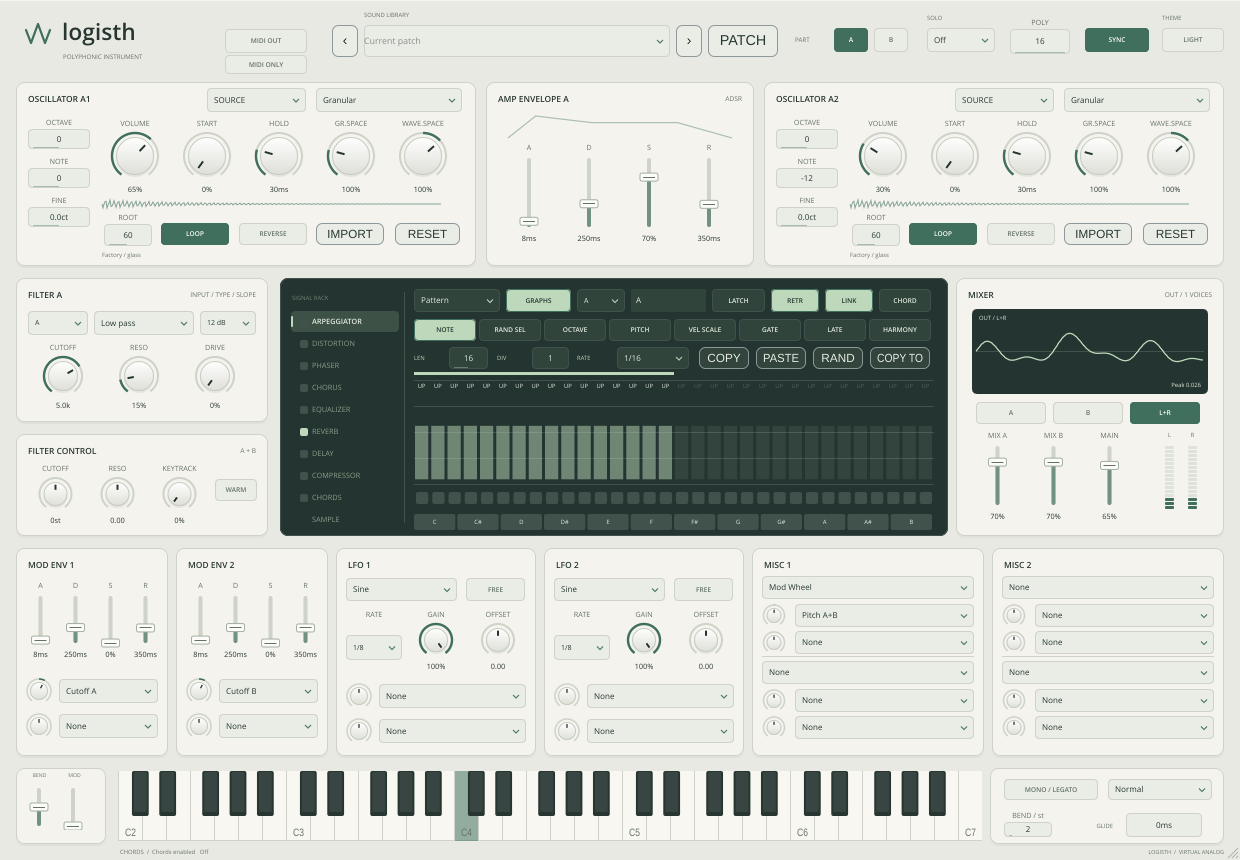
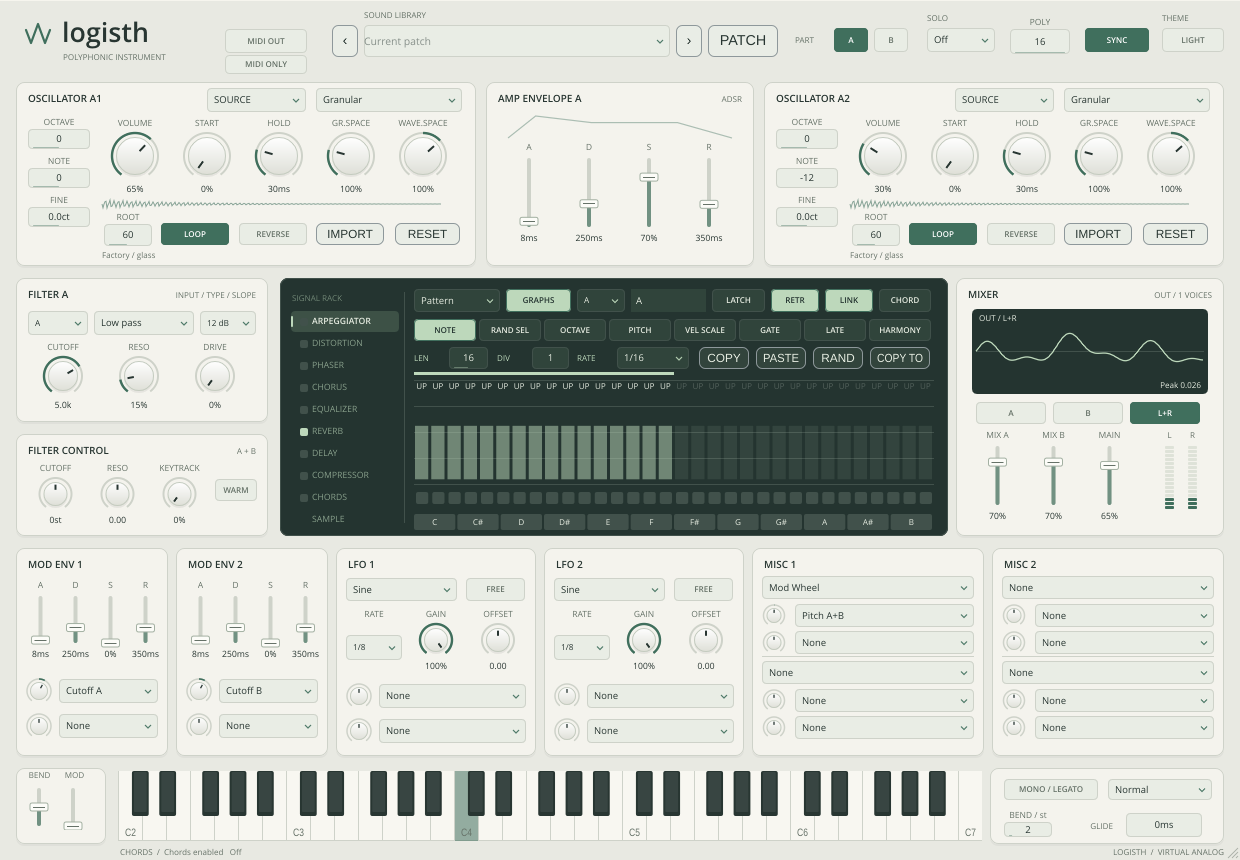
Fix dropped button clicks and arp disable state in logisth 0.5.1
Share the GUI layout-state comparison so granular-model defaults no longer trigger a 24 Hz control rebuild. Increase text/menu sizing, clear legacy arp playheads on disable, and add 100 pointer interaction cases plus arp shutdown and retrigger/inversion audio regressions.

diff --git a/tests/ProcessorTests.cpp b/tests/ProcessorTests.cpp
@@ -345,12 +345,106 @@ void checkStudioProcessor() {
            "user preset files, malformed file rejection, real sum scope and grain telemetry\n";
 }
 
+void checkPointerInteraction() {
+    using namespace juce;
+    LogisthProcessor p;
+    p.loadPreset(0);
+    std::unique_ptr<AudioProcessorEditor> ui(p.createEditor());
+    ui->setSize(1240, 860);
+    auto *console = ui->getChildComponent(0);
+    auto tick = [] {
+        Thread::sleep(55);
+        Timer::callPendingTimersSynchronously();
+    };
+    auto event = [](Component &c, bool down) {
+        auto at = c.getLocalBounds().getCentre().toFloat();
+        return MouseEvent(Desktop::getInstance().getMainMouseSource(), at,
+                          ModifierKeys(down ? ModifierKeys::leftButtonModifier : 0), 1, 0, 0, 0, 0,
+                          &c, &c, Time::getCurrentTime(), at, Time::getCurrentTime(), 1, false);
+    };
+    struct Probe : ComponentListener {
+        int changes = 0;
+        void componentVisibilityChanged(Component &) override {
+            ++changes;
+        }
+    };
+    auto click = [&](Button &button, Component &field, bool wait) {
+        Probe probe;
+        field.addComponentListener(&probe);
+        static_cast<Component &>(button).mouseDown(event(button, true));
+        check(button.isDown(), "mouse down reaches enabled button");
+        if (wait)
+            tick();
+        field.removeComponentListener(&probe);
+        check(probe.changes == 0,
+              "idle refresh must not hide/show a held button or its popup parent");
+        check(button.isDown(), "refresh must preserve pressed button state until mouse up");
+        // Paint the down state, as a native peer would, to avoid JUCE's synthetic flash timer.
+        button.createComponentSnapshot(button.getLocalBounds());
+        static_cast<Component &>(button).mouseUp(event(button, false));
+    };
+    auto *editor = dynamic_cast<LogisthEditor *>(ui.get());
+    int tested = 0;
+    for (bool dark : {false, true}) {
+        editor->setDarkTheme(dark);
+        for (int part = 0; part < 2; ++part) {
+            for (auto *child : console->getChildren())
+                if (auto *button = dynamic_cast<Button *>(child))
+                    if (button->getButtonText() == (part == 0 ? "A" : "B") && child->getY() < 80)
+                        click(*button, *button, false);
+            tick();
+            for (const auto &spec : logisth::parameterSpecs) {
+                auto *field = console->findChildWithID(spec.id);
+                if (!field || !field->isVisible() || !field->isEnabled())
+                    continue;
+                for (auto *child : field->getChildren())
+                    if (auto *button = dynamic_cast<ToggleButton *>(child))
+                        if (button->isVisible()) {
+                            float before = p.state.getRawParameterValue(spec.id)->load();
+                            click(*button, *field, true);
+                            check(p.state.getRawParameterValue(spec.id)->load() != before,
+                                  "every held-and-released toggle changes its parameter on first "
+                                  "click");
+                            tick();
+                            click(*button, *field, true);
+                            check(p.state.getRawParameterValue(spec.id)->load() == before,
+                                  "second click restores toggle without extra clicks");
+                            tick();
+                            ++tested;
+                        }
+            }
+        }
+    }
+    // All four model selectors, including host changes, must settle to one stable layout.
+    for (int model : {0, 1}) {
+        for (int i = 1; i <= 4; ++i) {
+            auto *param = p.state.getParameter("o" + String(i) + "gmodel");
+            param->setValueNotifyingHost(param->convertTo0to1(float(model)));
+        }
+        tick();
+        Probe probe;
+        auto *field = console->findChildWithID("p2type");
+        check(field && field->isVisible(), "visible filter menu selected for stability check");
+        field->addComponentListener(&probe);
+        tick();
+        tick();
+        field->removeComponentListener(&probe);
+        check(probe.changes == 0,
+              "menu parent stays stable across refreshes for either grain model");
+    }
+    check(tested >= 60, "buttons tested on both parts and in both themes");
+    std::cout << "PASS pointer interaction: " << tested
+              << " toggles, press/refresh/release and immediate on/off, both parts/themes, stable "
+                 "menu parents\n";
+}
+
 int main(int argc, char **argv) {
     try {
         juce::ScopedJuceInitialiser_GUI gui;
         checkEffects();
         checkHybridProcessor();
         checkStudioProcessor();
+        checkPointerInteraction();
         LogisthProcessor p;
         p.setRateAndBufferSizeDetails(48000, 512);
         p.prepareToPlay(48000, 512);

diff --git a/Source/PluginEditor.cpp b/Source/PluginEditor.cpp
@@ -13,7 +13,7 @@ Typeface::Ptr embeddedFace(bool bold) {
     return bold ? semiboldFace : regularFace;
 }
 Font font(float size, bool bold = false) {
-    return Font(FontOptions(embeddedFace(bold)).withHeight(size));
+    return Font(FontOptions(embeddedFace(bold)).withHeight(jmax(11.f, size * 1.18f)));
 }
 
 bool dark(const Component &c) {
@@ -111,7 +111,7 @@ Font LogisthLook::getPopupMenuFont() {
 }
 PopupMenu::Options LogisthLook::getOptionsForComboBoxPopupMenu(ComboBox &box, Label &label) {
     auto options =
-        LookAndFeel_V4::getOptionsForComboBoxPopupMenu(box, label).withStandardItemHeight(24);
+        LookAndFeel_V4::getOptionsForComboBoxPopupMenu(box, label).withStandardItemHeight(28);
     if (bool(box.getProperties()["routing"]))
         return options.withMinimumNumColumns(3).withMaximumNumColumns(3).withMinimumWidth(420);
     return options;
@@ -1430,7 +1430,8 @@ class LogisthEditor::Console : public Component,
             controls[size_t(Param(size_t(Param::o1retrig) + size_t(number - 1) * 12))]->enable(
                 value(Param(size_t(Param::o1engine) + slot * 16)) <= 1);
             controls[size_t(Param(size_t(Param::o1phase) + size_t(number - 1) * 12))]->enable(
-                value(Param(size_t(Param::o1retrig) + size_t(number - 1) * 12)) > 0);
+                value(Param(size_t(Param::o1retrig) + size_t(number - 1) * 12)) > 0 &&
+                value(Param(size_t(Param::o1engine) + slot * 16)) <= 1);
         } else {
             for (int i = 0; i < 3; ++i)
                 control(id + StringArray{"octave", "tune", "fine"}[i],
@@ -1810,12 +1811,18 @@ class LogisthEditor::Console : public Component,
         parts[1].repaint();
         for (auto &b : rackButtons)
             b->repaint();
-        clockSignature = int(value(Param::sync)) * 8 + int(value(Param::lfo1free)) * 4 +
-                         int(value(Param::lfo2free)) * 2 + int(value(Param::arpmode) >= 8) +
-                         int(value(Param::arppattern)) * 16 + int(value(Param::arpgraphs)) * 32;
-        for (int o = 0; o < 4; ++o)
-            clockSignature += int(value(Param(size_t(Param::o1engine) + size_t(o) * 16)))
-                              << (6 + o * 2);
+        layoutStamp = currentLayoutState();
+    }
+    std::array<int, 15> currentLayoutState() const {
+        std::array<int, 15> state{int(value(Param::sync)),       int(value(Param::lfo1free)),
+                                  int(value(Param::lfo2free)),   int(value(Param::arpmode) >= 8),
+                                  int(value(Param::arppattern)), int(value(Param::arpgraphs)),
+                                  int(value(Param::glink))};
+        for (int o = 0; o < 4; ++o) {
+            state[size_t(7 + o)] = int(value(Param(size_t(Param::o1engine) + size_t(o) * 16)));
+            state[size_t(11 + o)] = int(value(Param(size_t(Param::o1gmodel) + size_t(o) * 15)));
+        }
+        return state;
     }
     void timerCallback() override {
         processor.serviceAssets();
@@ -1853,14 +1860,7 @@ class LogisthEditor::Console : public Component,
             waveView.repaint();
         if (rack == 8)
             refreshChord();
-        int signature = int(value(Param::sync)) * 8 + int(value(Param::lfo1free)) * 4 +
-                        int(value(Param::lfo2free)) * 2 + int(value(Param::arpmode) >= 8) +
-                        int(value(Param::arppattern)) * 16 + int(value(Param::arpgraphs)) * 32;
-        for (int o = 0; o < 4; ++o) {
-            signature += int(value(Param(size_t(Param::o1engine) + size_t(o) * 16))) << (6 + o * 2);
-            signature += int(value(Param(size_t(Param::o1gmodel) + size_t(o) * 15))) << (16 + o);
-        }
-        if (signature != clockSignature)
+        if (currentLayoutState() != layoutStamp)
             layout();
         for (int i = 0; i < 4; ++i)
             controls[size_t(Param(size_t(Param::o1phase) + size_t(i) * 12))]->enable(
@@ -2071,7 +2071,8 @@ class LogisthEditor::Console : public Component,
     TooltipWindow tooltips;
     String readout, lastStatus;
     std::array<uint64_t, 4> displayedRevisions{};
-    int selectedPart = 0, rack = 0, stepPage = 0, clockSignature = -1, previewSync = -1;
+    std::array<int, 15> layoutStamp{};
+    int selectedPart = 0, rack = 0, stepPage = 0, previewSync = -1;
 };
 LogisthEditor::LogisthEditor(LogisthProcessor &p) : AudioProcessorEditor(p) {
     setLookAndFeel(&look);

diff --git a/tests/StudioTests.cpp b/tests/StudioTests.cpp
@@ -239,6 +239,42 @@ int main() {
               "non-retrigger clock aligns with host PPQ");
         p.transportPlaying = false;
         check(ons(sequence(p)).empty(), "synchronised graphs respect stopped host transport");
+        for (int mode = 0; mode < 3; ++mode) {
+            auto params = ArpParams{};
+            params.enabled = true;
+            params.pattern = mode > 0;
+            params.graphs.enabled = mode == 2;
+            params.sync = false;
+            params.latch = true;
+            Arpeggiator arp;
+            arp.prepare(1000);
+            std::vector<MidiEvent> events;
+            auto emit = [&](MidiEvent e) { events.push_back(e); };
+            arp.begin(params, emit);
+            arp.input({0, EventType::NoteOn, 1, 60, 1}, params, emit);
+            arp.input({0, EventType::Controller, 1, 64, 127}, params, emit);
+            arp.input({0, EventType::NoteOff, 1, 60, 0}, params, emit);
+            arp.advance(0, 30, params, emit);
+            check(arp.playhead() >= 0, "arp starts before disable test");
+            params.enabled = false;
+            events.clear();
+            arp.begin(params, emit);
+            check(arp.playhead() == -1, "disable clears playhead in every arp engine");
+            arp.advance(0, 1000, params, emit);
+            check(ons(events).empty(),
+                  "disable cancels latched/sustained steps and pending repeats");
+            check(std::any_of(events.begin(), events.end(),
+                              [](auto e) {
+                                  return e.type == EventType::Controller && e.key == 64 &&
+                                         e.value == 0;
+                              }),
+                  "disable releases sustain for downstream instruments");
+            events.clear();
+            arp.input({0, EventType::NoteOn, 1, 67, .7f}, params, emit);
+            arp.input({20, EventType::NoteOff, 1, 67, 0}, params, emit);
+            check(ons(events).size() == 1 && ons(events)[0].key == 67,
+                  "disabled arp passes fresh notes through normally");
+        }
         ScopeBuffer scope;
         for (int i = 0; i < 10000; ++i)
             scope.push(float(i), -float(i), 0);

diff --git a/tests/HybridTests.cpp b/tests/HybridTests.cpp
@@ -47,6 +47,25 @@ int main() {
         p.osc[0].level = .7f;
         p.osc[0].retrigger = true;
         p.master = 1;
+        for (int engine : {0, 1}) {
+            p.osc[0].engine = engine;
+            p.osc[0].phase = 90;
+            const auto reference = render(p);
+            check(difference(reference, render(p)) < 1e-6,
+                  "Retrig repeats the selected start phase");
+            p.osc[0].phase = 180;
+            check(difference(reference, render(p)) > 1, "Retrig phase changes audible waveform");
+            p.osc[0].phase = 90;
+            p.osc[0].invert = true;
+            const auto inverted = render(p);
+            double error = 0;
+            for (size_t i = 0; i < reference.size(); ++i)
+                error += std::abs(reference[i] + inverted[i]);
+            check(error < 1e-5, "Invert reverses audio polarity in Classic and Wavetable engines");
+            p.osc[0].invert = false;
+        }
+        p.osc[0].engine = 0;
+        p.osc[0].phase = 0;
         for (double sr : {44100., 48000., 96000.})
             for (int slot = 0; slot < 4; ++slot)
                 for (int mode = 0; mode < 4; ++mode) {

diff --git a/Source/Arpeggiator.h b/Source/Arpeggiator.h
@@ -226,6 +226,8 @@ class Arpeggiator {
             repeatsLeft = 0;
             untilRepeat = -1;
             latched = false;
+            latchWasEnabled = false;
+            currentStep = -1;
             step = position = 0;
             untilStep = 0;
             enabled = p.enabled;

diff --git a/docs/RELEASE-v0.5.1.md b/docs/RELEASE-v0.5.1.md
@@ -1,0 +1,33 @@
+# logisth 0.5.1 — Responsive controls and clearer text
+
+This maintenance release fixes missed clicks reported in 0.5.0.
+
+- **Buttons and menus:** the GUI no longer hides and rebuilds its controls on
+  every 24 Hz refresh. Layout and refresh now share the same state comparison,
+  including all four granular model selectors and the graph length-link switch.
+  Previously the refresh included granular-model state that the cached layout
+  omitted; the default model values made the two disagree continuously. The
+  shared comparison keeps mouse presses and menu interactions stable.
+- **Retrig and Invert:** tested using mouse-down, timer refresh and mouse-up on
+  both parts, in both themes. Audio tests check retrigger phase repeatability
+  and inversion polarity in Classic and Wavetable modes.
+- **Arpeggiator:** disabling Legacy or the previous Pattern engine also clears
+  the stale playhead. Tests cover switching off all three engines with latch
+  and sustain, cancellation of future steps, and normal MIDI bypass afterward.
+- **Typography:** embedded font sizes increased by 18%, with an 11 px base
+  minimum; popup rows increased to 28 px.
+
+The button test reproduces the repeated visibility changes in 0.5.0 and passes
+with the fix. Existing parameters, preset format and plug-in identity are retained.
+All four source engines, waveform/grain display, A/B/L+R scope, eight arp graphs
+and portable user presets remain available.
+
+Downloads contain **VST3, CLAP and Standalone** for Windows x64, Linux x64 and
+macOS Universal (Intel + Apple Silicon), plus the English PDF/Markdown manual,
+source, screenshots, an audio demo and SHA256SUMS.
+
+Publication requires all native builds and tests to pass, with none skipped.
+Linux also loads the actual VST3 and CLAP binaries. macOS runtime tests run on
+Intel; both binary architectures are verified. macOS requires 11+, is ad-hoc
+signed and not notarized; Windows is unsigned. Linux requirements appear in
+BUILD_INFO.json. VST2 is not included without its separately licensed SDK.

diff --git a/README.md b/README.md
@@ -1,10 +1,20 @@
-# logisth 0.5.0
+# logisth 0.5.1
 
 **A two-part polyphonic subtractive synthesizer with a compact single-window console.**
 VST3, CLAP and Standalone for Windows, macOS and Linux. Built with JUCE and an
 independent synthesis engine; not affiliated with LennarDigital.
 
 ![logisth dark interface](docs/images/logisth-dark.png)
+
+## Fixed in 0.5.1
+
+- Buttons and menus stay stable between GUI refreshes; Retrig, Invert and the
+  arp enable switch respond to each click.
+- The arp playhead clears on disable in all three engines; latch, sustain and
+  scheduled notes are checked by regression tests.
+- Larger embedded text, a minimum 11 px base font and taller popup menu rows.
+- Press/refresh/release tests cover both parts and both themes, plus audio
+  checks for retrigger phase and inversion polarity.
 
 ## What's new in 0.5.0
 
@@ -21,7 +31,7 @@ independent synthesis engine; not affiliated with LennarDigital.
 
 [English manual](docs/MANUAL.md) · [PDF manual](docs/logisth-Manual-English.pdf) ·
 [Implementation references](docs/STUDIO-0.5.md) ·
-[Download 0.5.0](https://github.com/logik93/logisth/releases/tag/v0.5.0)
+[Download 0.5.1](https://github.com/logik93/logisth/releases/tag/v0.5.1)
 
 Native archives are built and tested on Windows, macOS and Linux. Each package
 contains the English manual and build metadata. Publication requires all platform

diff --git a/docs/INTERFACE.md b/docs/INTERFACE.md
@@ -34,3 +34,11 @@ SAMPLE is the tenth rack page with source selection, actual waveform, live curso
 and grain markers. Pattern + GRAPHS shows one of eight 32-step graphs, independent
 length/divider, mute/reset, pitch masks and A-L named memories in the same rack.
 GRAPHS off retains the earlier Pattern grid. The mixer scope is always visible.
+
+Version 0.5.1 increases embedded font sizes by 18%, with an 11 px base minimum
+and 28 px popup rows. The console uses one shared layout-state comparison for
+refresh and layout; unchanged audio/UI state does not hide and rebuild controls.
+Regression tests exercise 100 toggle interaction cases across timer ticks in both parts
+and both themes, checking both directions of each switch. The cached layout
+previously omitted granular model state used by the refresh comparison, causing
+a permanent mismatch with default patches.

diff --git a/docs/MANUAL.md b/docs/MANUAL.md
@@ -1,4 +1,4 @@
-# logisth 0.5.0 — User Manual
+# logisth 0.5.1 — User Manual
 
 A two-part polyphonic subtractive synthesizer for VST3, CLAP and standalone use.
 This manual describes logisth's own controls and behaviour. logisth is an independent
